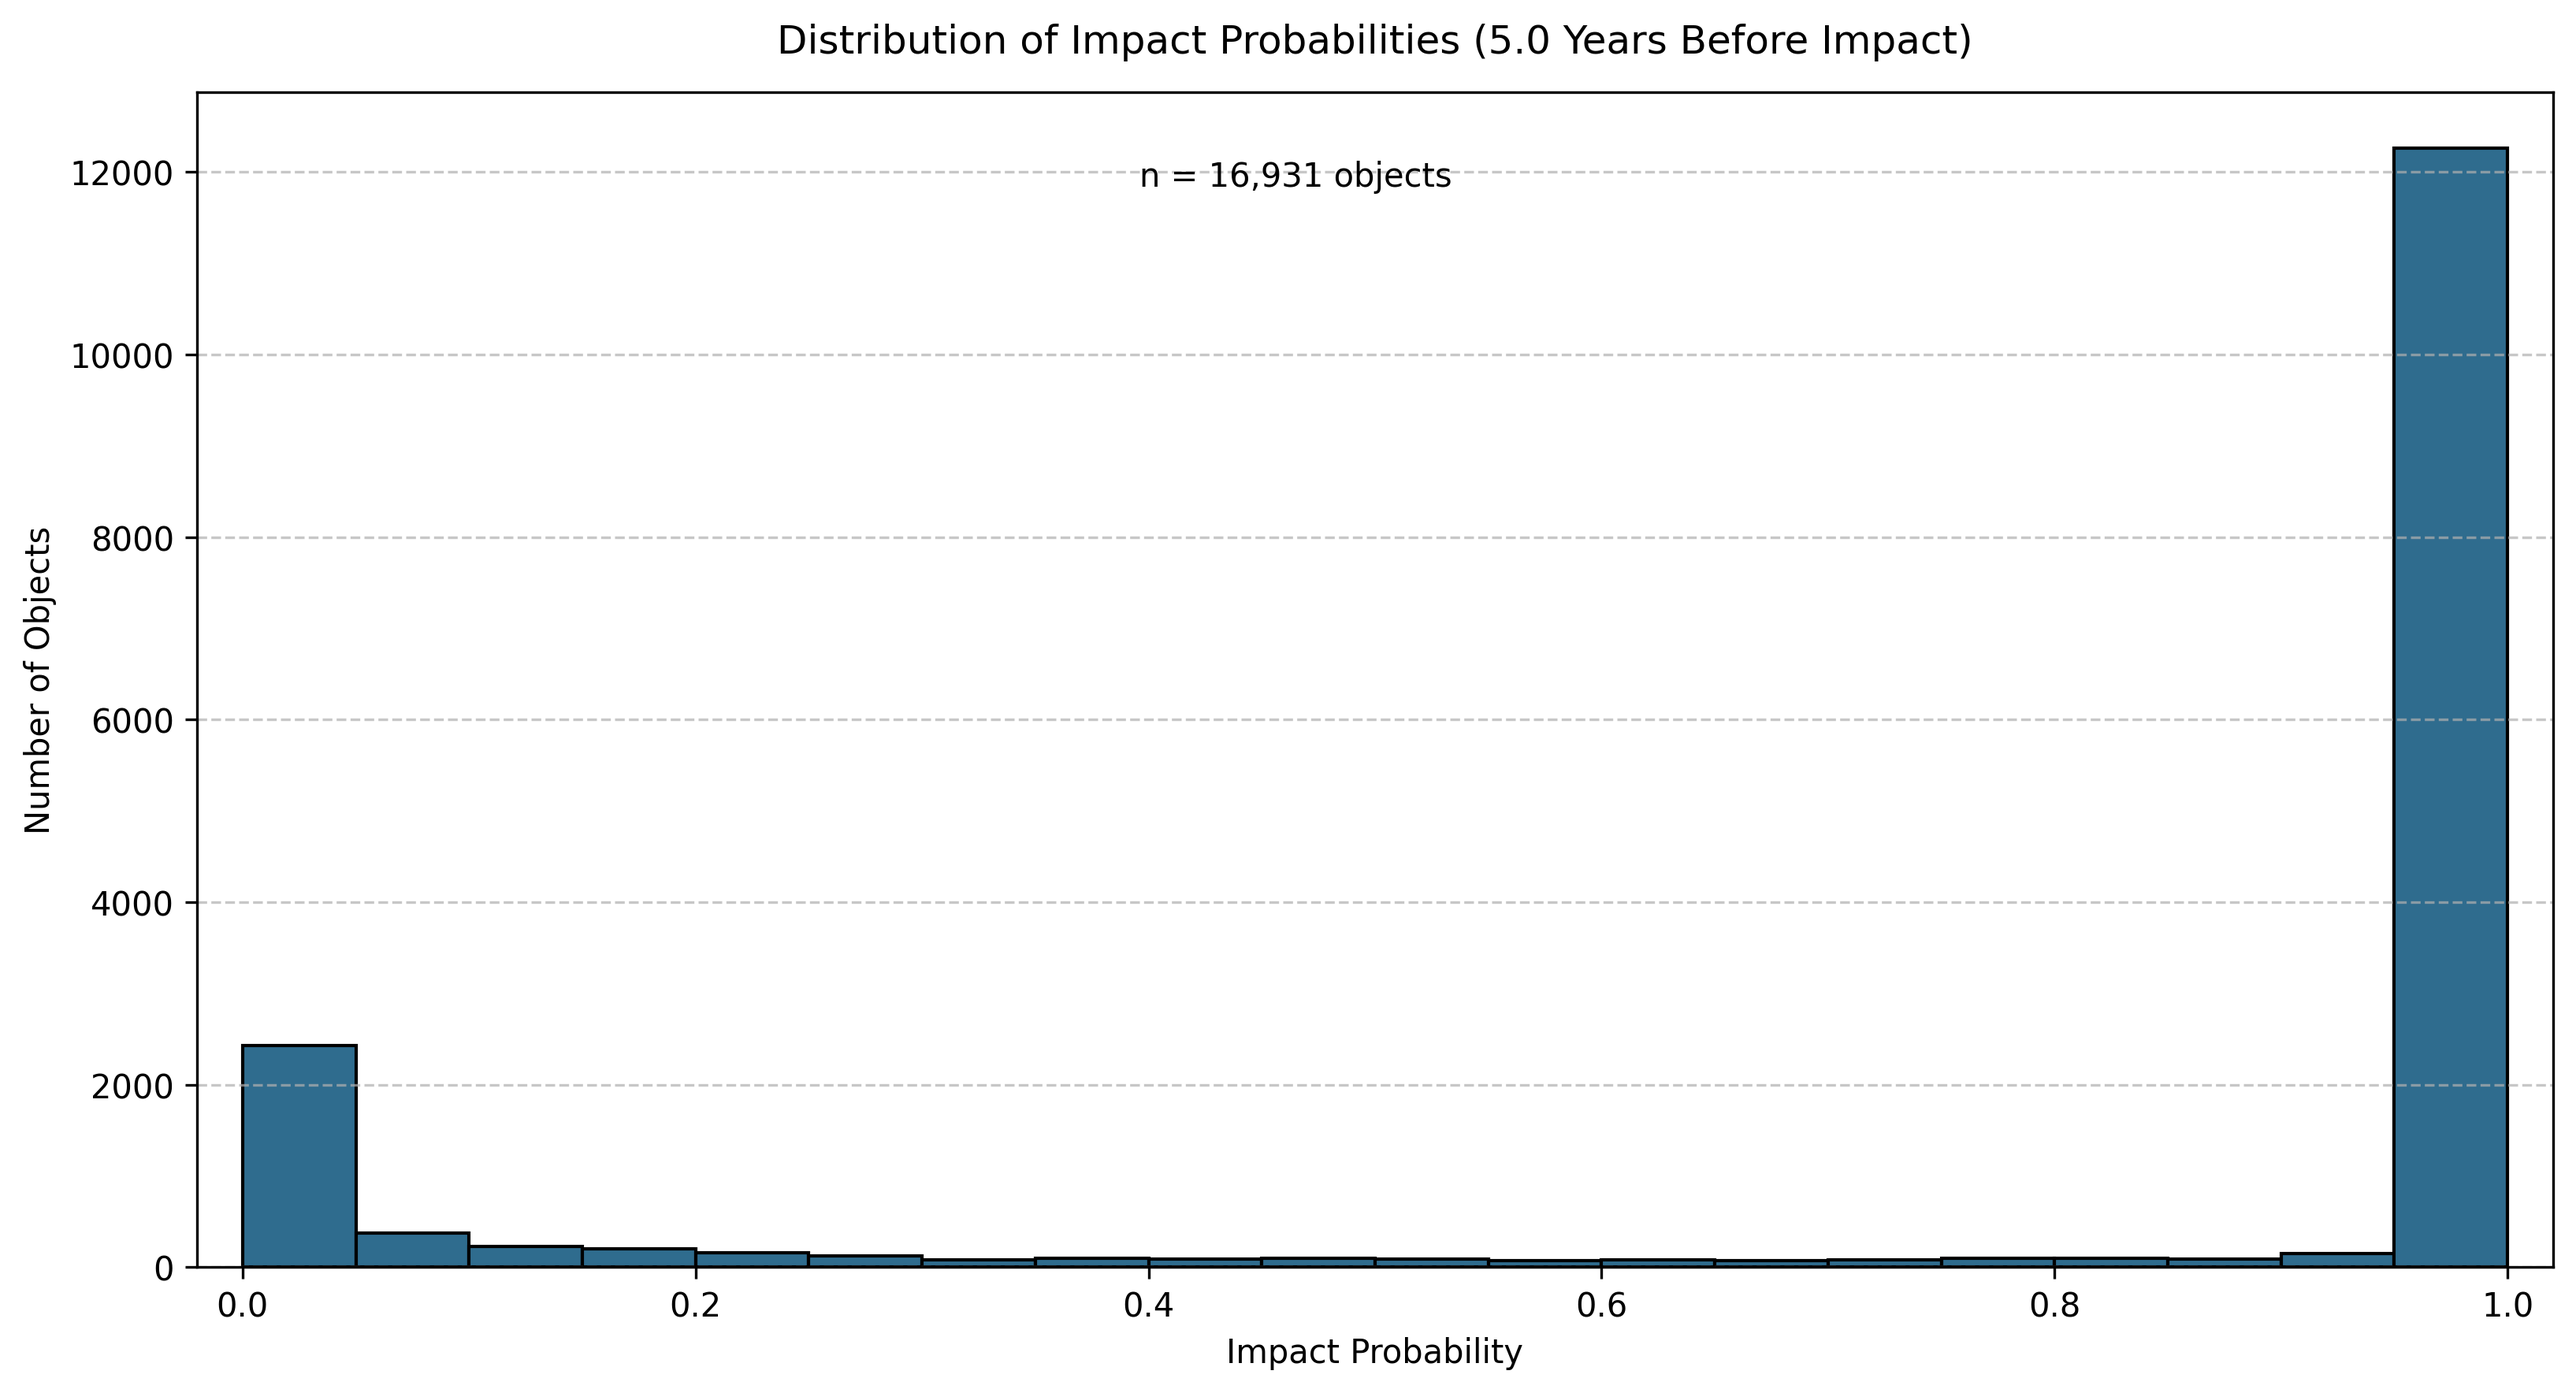
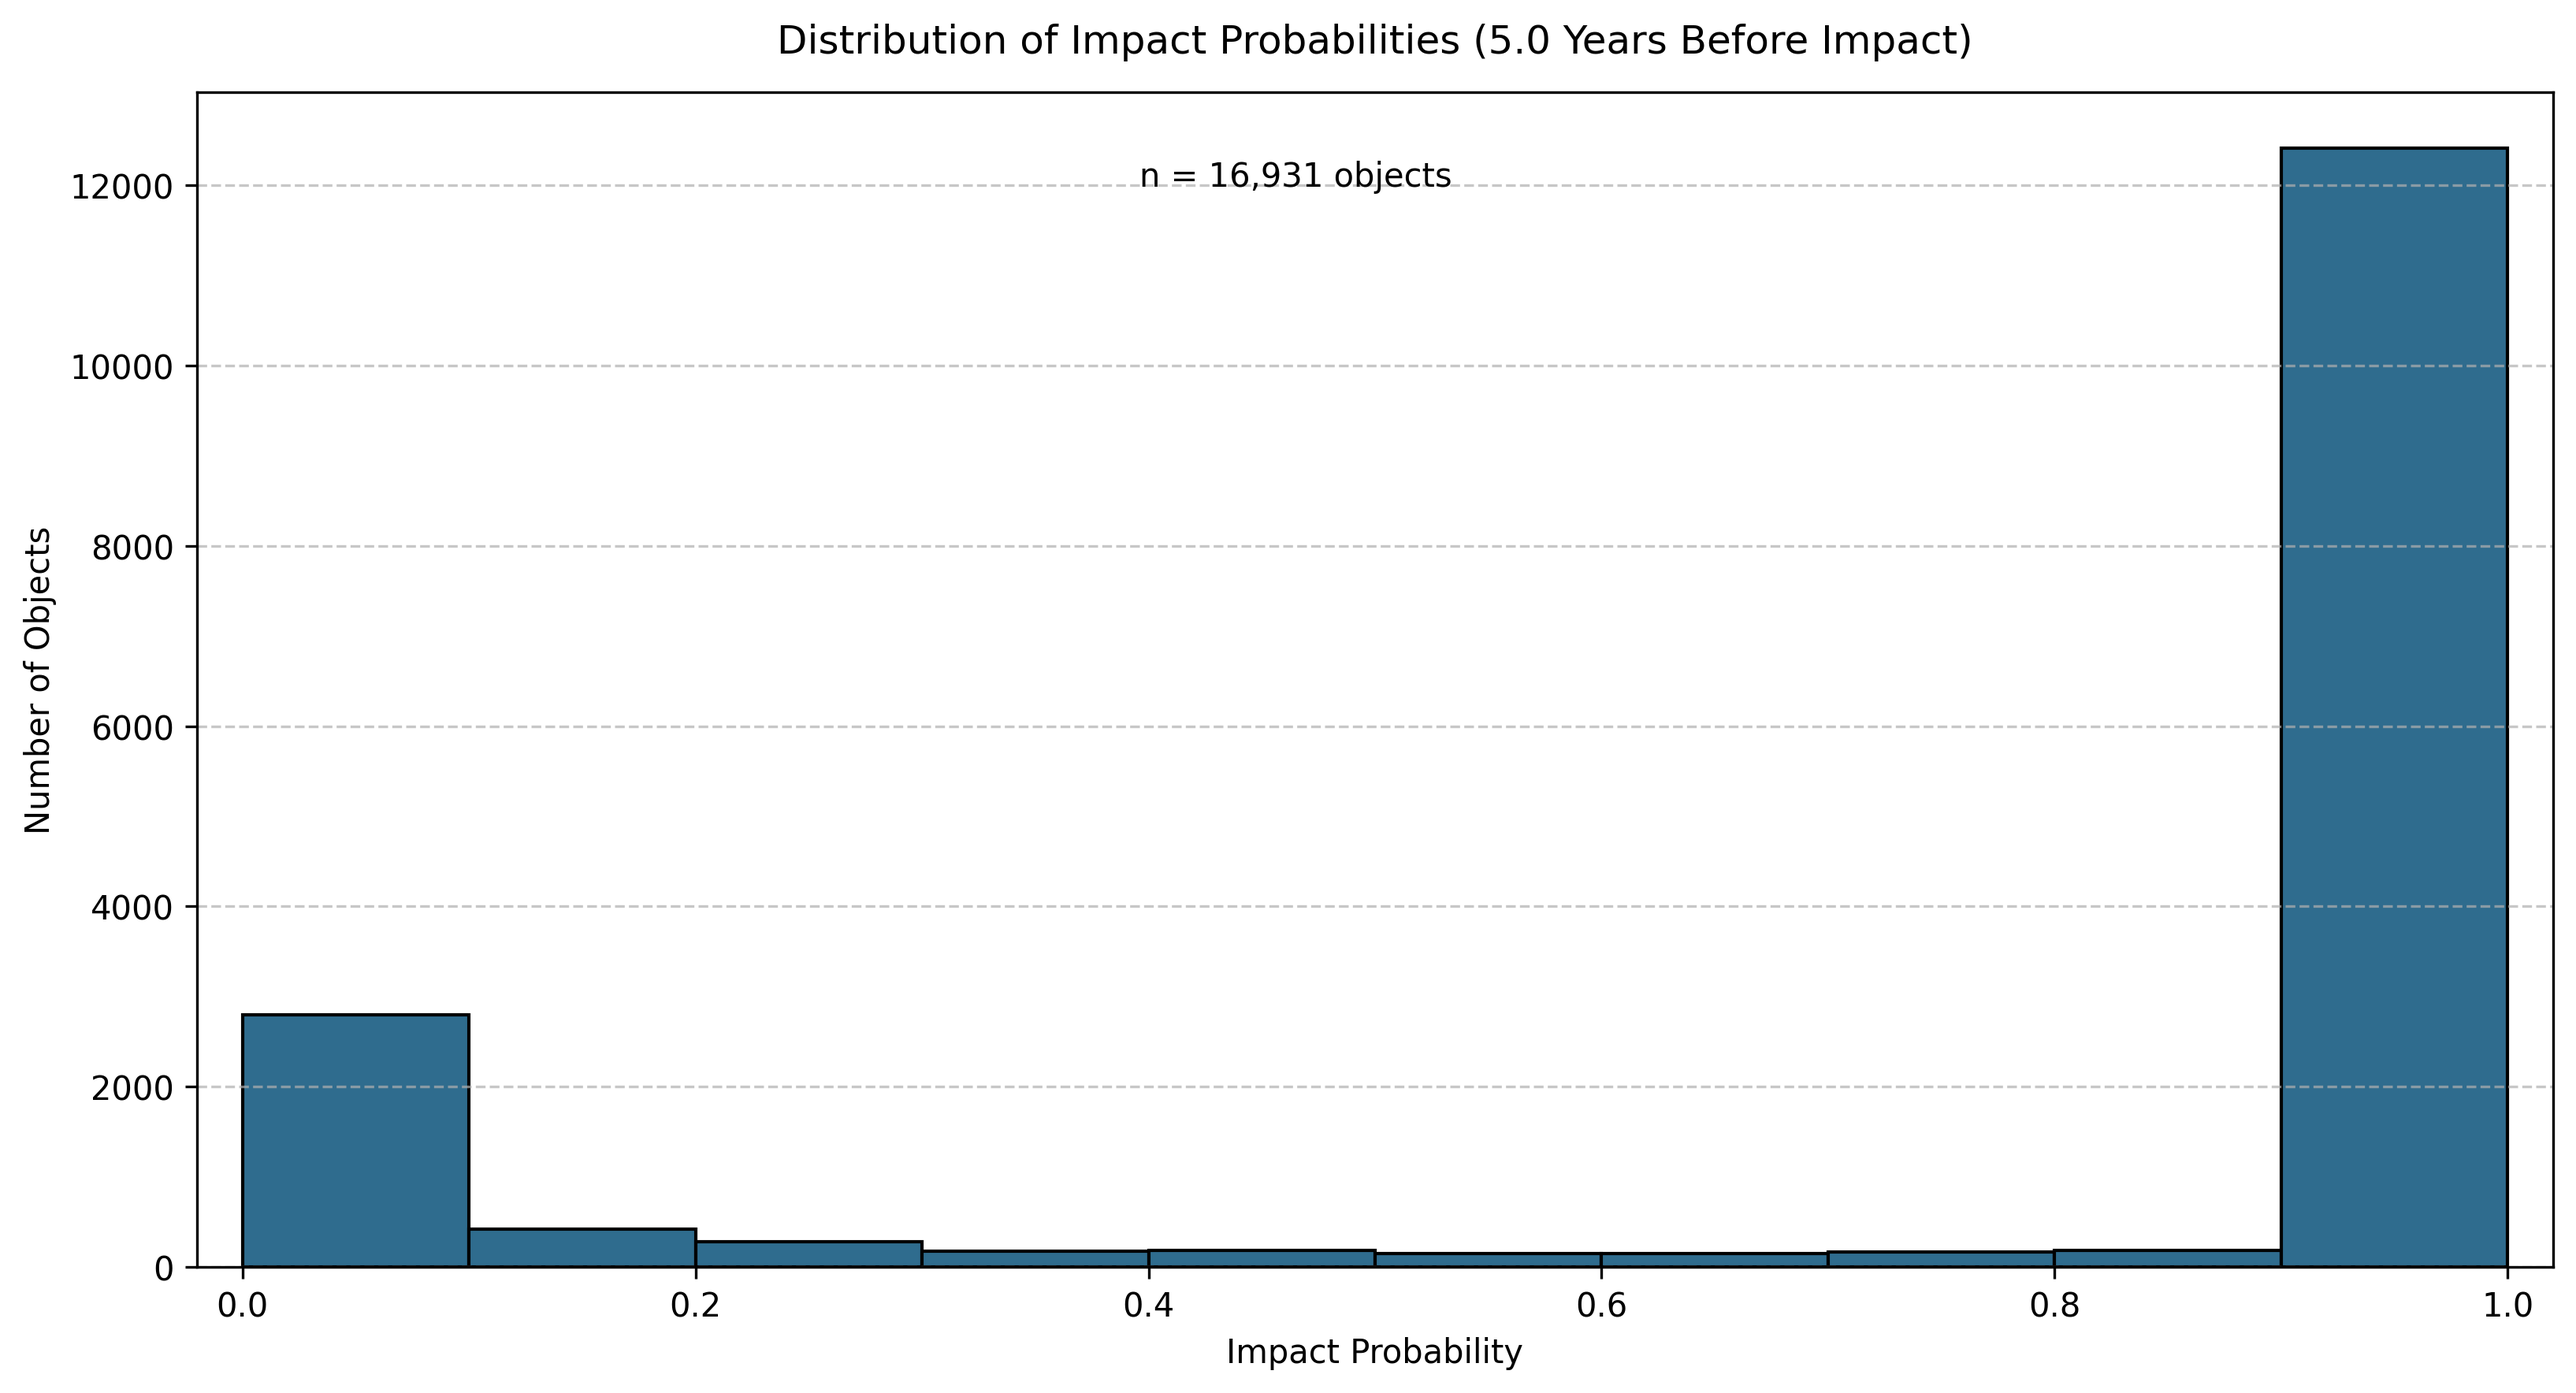
IP histogram: 0.1 bins

diff --git a/data/mar_run_analysis_20260301/figures_revised_20260706/make_ip_hist_5yr.py b/data/mar_run_analysis_20260301/figures_revised_20260706/make_ip_hist_5yr.py
@@ -25,7 +25,7 @@ sys.path.insert(0, f"{REPO}/src")
 from adam_impact_study.types import ImpactorResultSummary
 
 LEAD_YR = 5.0
-BINS = np.arange(0, 1.0001, 0.05)
+BINS = np.arange(0, 1.0001, 0.1)
 
 s = ImpactorResultSummary.from_parquet(f"{DATA}/summary_results.parquet")
 s = s.apply_mask(s.prograde_orbits())
